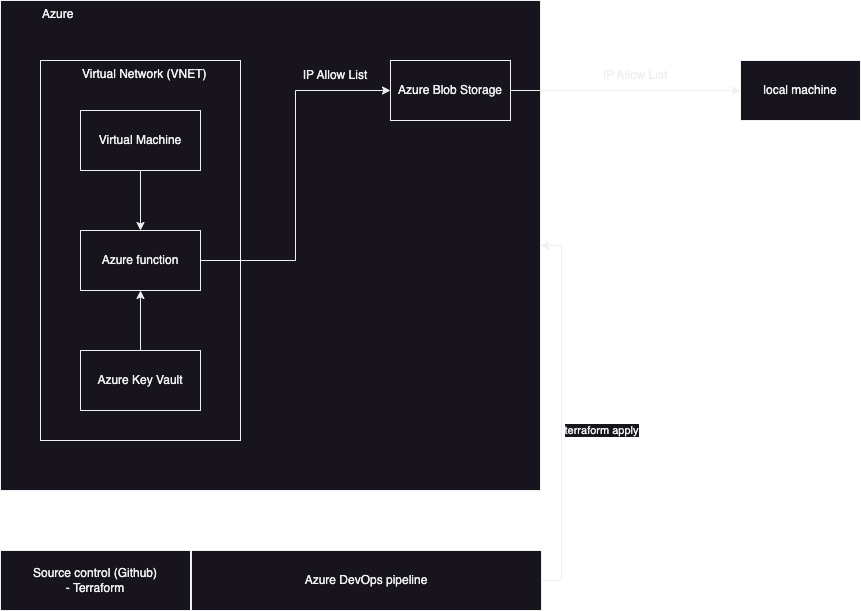
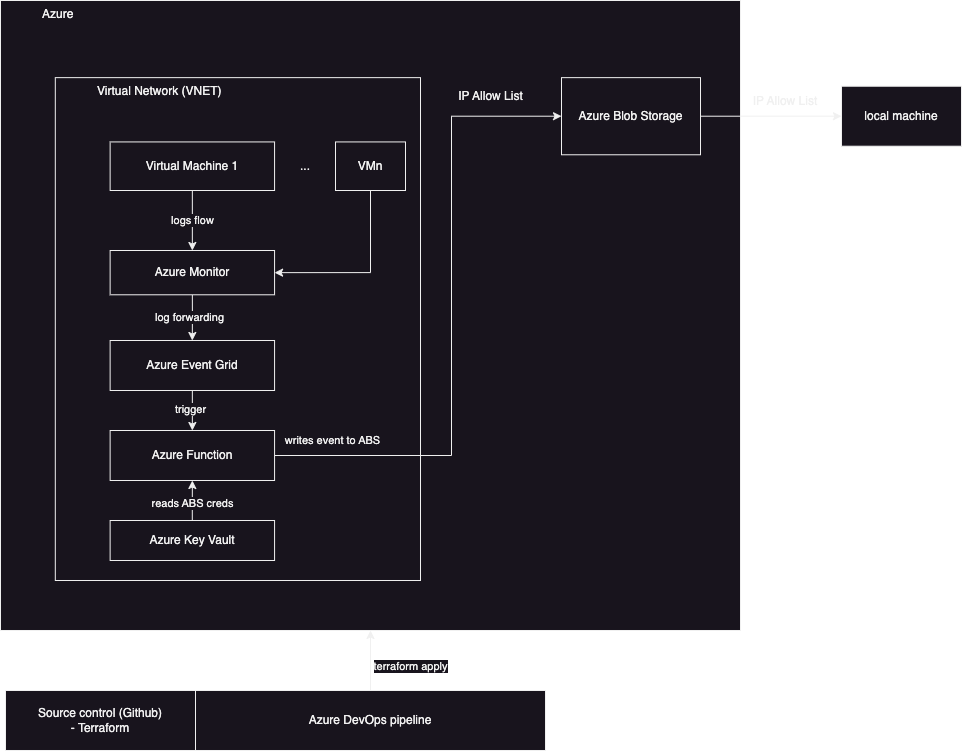
local setup completed; updated solution with Event Grid and Monitor for VM log output; Started execution log

diff --git a/docs/readme.md b/docs/readme.md
@@ -1,7 +1,7 @@
 # Execution notes
 
 ## Summary
-<!-- TOC -->
+<!-- TOC depthTo:3 -->
 
 - [Execution notes](#execution-notes)
     - [Summary](#summary)
@@ -10,7 +10,8 @@
     - [Execution plan](#execution-plan)
     - [Technical details](#technical-details)
         - [Solution diagram](#solution-diagram)
-    - [Challenges](#challenges)
+        - [Execution](#execution)
+    - [Challenges & Solutions](#challenges--solutions)
     - [Security](#security)
 
 <!-- /TOC -->
@@ -36,7 +37,8 @@ VM logs are to be retrieved via the created Azure function (running on the same 
 - [x] read main `readme.md`.
 - [x] mock solution diagram.
 - [x] read AWS example provided by Gabriel (it may provide insights and shortcuts I haven't thought of).
-- [ ] install Azure CLI locally so I can `terraform apply` from my local machine. [reference](https://developer.hashicorp.com/terraform/tutorials/azure-get-started/azure-build);
+- [ ] local setup. [detailed task](#local-environment-setup).
+- [ ] cost estimate calculations for the proposed solution (top it at 200 USD)
 - [ ] create `Terraform` script to `terraform apply/destroy` VNET (it should cost peanuts 🥜).
 - [ ] deploy VM last as it is likely the most expensive resource of them all.
 - [ ] see what I can get out of Azure function. I am guessing I can drag drop my way there to do fun stuff for me.
@@ -49,15 +51,69 @@ VM logs are to be retrieved via the created Azure function (running on the same 
 ### Solution diagram
 ![solution](./assets/block-diagram.png)
 
+### Execution
+#### Getting my Azure account
+- Signed up for a 200 USD free starter account on Azure.
+
+#### Local environment setup
+I need to setup my own account with Azure then setup macOS to be able to talk to Azure so that `Terraform` is able to actually go an deploy resources for me there.
+Before I can Terraform anything, I should create an Azure Resource Group which is where all my resource will end up.
+**IMPORTANT**: remember to destroy the resource group in its entirety at the end of the exercise so it stops charging me.
+
+[reference](https://developer.hashicorp.com/terraform/tutorials/azure-get-started/azure-build).
+
+With Azure CLI installed:
+```bash
+az login
+# follow the auth flow and retrieve your account ID then
+export SUBS_ID=[THE_ACTUAL_ID_VALUE]
+az account set --subscription $SUBS_ID
+
+# Setup a Service Principal so that Terraform can act on my behalf
+az ad sp create-for-rbac --role="Contributor" --scopes="/subscriptions/$SUBS_ID"
+
+# Setting up local Terraform envs
+ export ARM_CLIENT_ID="<APPID_VALUE>"
+ export ARM_CLIENT_SECRET="<PASSWORD_VALUE>"
+ export ARM_SUBSCRIPTION_ID="<SUBSCRIPTION_ID>"
+ export ARM_TENANT_ID="<TENANT_VALUE>"
+```
+
+#### Which infra region to select
+- https://azure.microsoft.com/en-us/explore/global-infrastructure
+- about 60 regions;
+- top most grouping is named "geography";
+- a region is a subgroup inside of a geography
+- availability zones can be used to provide single digit millisecond fail over within a region.
+- reduce network latency by providing resources closer to users. Me in this case.
+- data compliance regulation requirements: none for this exercise.
+- products by region page shows which services are available per region: we want to make it so that all the resources we need are within the same region. I remember network traffic is costly.
+- [this filter](https://azure.microsoft.com/en-us/explore/global-infrastructure/products-by-region/?products=functions,storage,virtual-network,virtual-machines,key-vault&regions=non-regional,brazil-south,brazil-southeast) states **Brazil South** is a sweet spot for me.
+- Looking at the price calculator (next section), I noticed **Central US** has cheaper VM's.
+
+#### Estimating solution cost
+- Azure pricing calculator
+- It looks like I can have the full free tier \o/: https://azure.microsoft.com/en-us/free/#all-free-services
+    - 750 hours Linux VM
+    - ABS 5GB with locally redundant storage
+    - Azure Functions: 1 million requests
+    - Azure Event Grid: 100k operations per month. I can use the observer pattern and subscribe to logs as they go.
+
+#### Architect for high volume/low volume
+I'll consider this one particular scenario is low volume, so I'll not use Azure Event Hub and will simply got straight from Azure Monitor to Event Grid instead.
+Looking at the overall architecture and for the purpose of the exercise, I believe this would make it easier to simply attach new VM's to Azure Monitor.
+Azure Function's sole purpose is log writing without having to worry how the events got there.
+I could of course, simply write a piece of code that reads and parses code straight from the VM, but that'd probably be harder to maintain/deploy.
+
 > More soon...
 
-## Challenges
+## Challenges & Solutions
 1. How to generate `WARNING/ERROR` type logs in case everything goes smoother than usual.
 1. Latency: how frequent do we trigger log retrieval? Pooling or event-based?
 1. How to ensure we don't send a gargantuan amount of logs to blobs, so I don't have to sell my kidney to pay for it. 😅
 1. Do we write a pipeline that does `terraform apply` upon receiving updates on this repo?
-1. Define upload path semantics
-1. What happens if they ask me to start sending logs from a new VM? Can I have it so, I can simply append the new VM in the list and magic happens? Upload paths should allow VM identification to effective blob retrieval.
+1. Define upload path semantics.
+1. What happens if they ask me to start sending logs from a new VM? Can I have it so, I can simply append the new VM in the list and magic happens? Upload paths should allow VM identification for effective blob retrieval.
 1. Encoding of logs before sending so they don't get messed up because of special formatting.
 1. How can I detect if the VM was shutdown and logs are no longer flowing?
 
